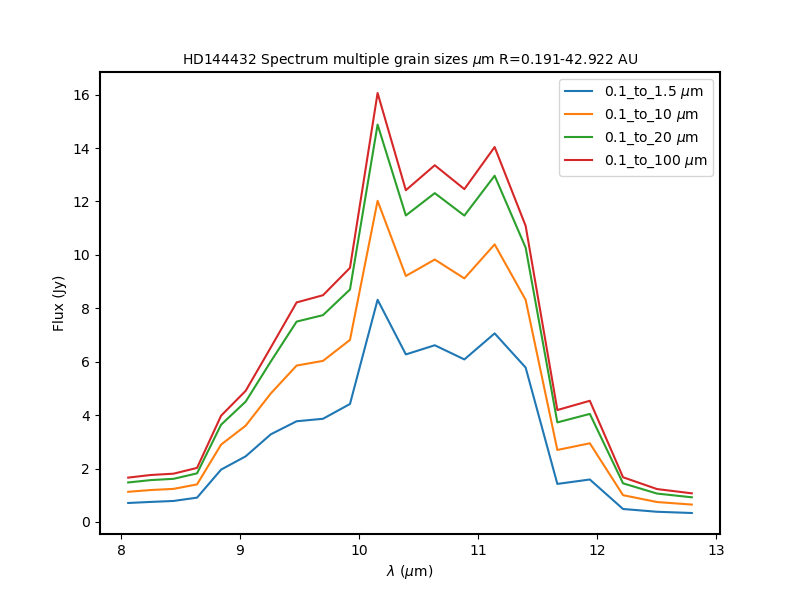
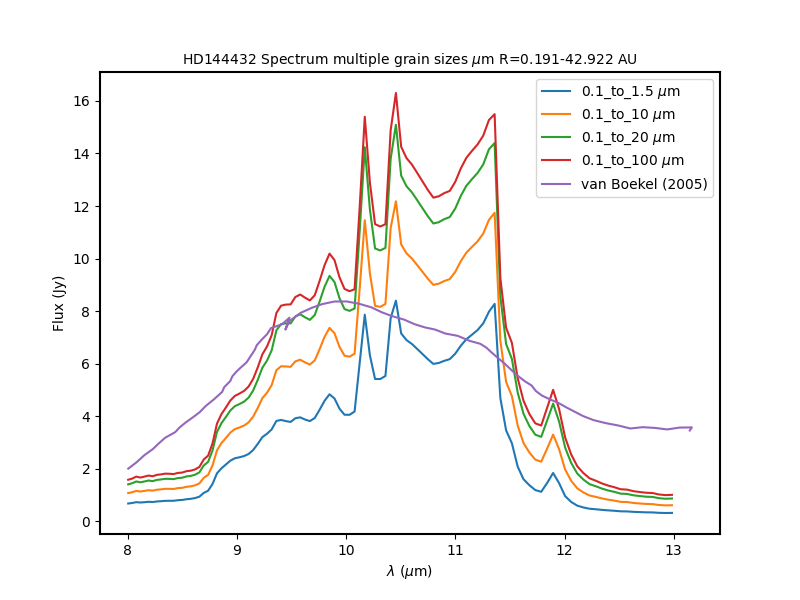
added hd144432 graphs

diff --git a/recreate_spectra.py b/recreate_spectra.py
@@ -6,6 +6,7 @@ import matplotlib.pyplot as plt
 import pandas as pd
 from astropy import units as u
 from astropy.constants import astropyconst20 as const
+from scipy.special import j0
 from fancy_name import latex_name
 from all_solids import get_all_solids
 from molmass import Formula
@@ -15,20 +16,51 @@ from radial_plot import R_plot
 from top5_minerals import final_abundances, most_abundant, topabunds_by_radii
 from spectra import molecular_weight, surface_density, r_to_rad, slice_lQ, get_l_and_k, Plancks, tau_calc, tau_calc_amorphous, flux_map, calculate_spectra, hankel_transform
 from no_thoughts_just_plots import Qcurve_plotter, plot_Bv, plot_tau, plot_fluxmap, plot_spectra
-from Qcurve_compare import gimme_k
+from Qcurve_compare import gimme_k, gimme_l
 
 
-# ~ def get_paper_spectra(filename):
+def get_paper_spectra(filename):
 	
-	# ~ return wl, flux
+	spectrum = pd.read_csv(filename, delimiter=',', names = ['wavelength', 'flux'])
+	wl = u.Quantity(spectrum['wavelength'].to_numpy(), u.micron)
+	flux = spectrum['flux'].to_numpy() * u.Jy
+	
+	return wl, flux
 	
 	
-def gimme_l(filename):
+def hankel_transform_fast(F_map, R_arr, wl, B_arr, dist_pc):
 	
-	Q_curve = pd.read_csv(filename, delimiter='\s+', skiprows = 23, names = ['wavelength', 'Kabs', 'Ksca', 'g_asymm'])
-	lamda = u.Quantity(Q_curve['wavelength'].to_numpy(), u.micron)
+	"""
+	Calculates the absolute correlated flux density (in Jy) using the combined flux map of all the solids. This involves finding the Fourier transform in cylindrical coordinates using the Bessel function of the first kind zeroth order (j0). It is assumed that the correlated fluxes (shape: (lsize,)) are to be plotted against the wavelengths. If, however, it is to be plotted against the baselines, then the correlated flux density (a single float value) corresponding to a specific wavelength (wl) is extracted and returned from the array (shape: (lsize,)). This can be specified with wl_array.
 	
-	return lamda
+	Parameters: 
+	
+	F_map 		  : 2D array (shape: (NPOINT, lsize)) of the combined flux map for all solids in erg/(s Hz sr cm^2) i.e. CGS units (float)
+	R_arr         : 1D array of radii in AU obtained from the temperature array in GGchem output based on the power law model (float)
+	lamda         : 1D array of wavelengths (shape: (lsize,)) of the solid in microns (float)
+	wl 			  : A single wavelength (in micron) where the correlated flux is required if the fluxes are plot against baseline (float). It is used only if wl_array = False
+	B 			  : The interferometric baseline value in m (float)
+	wl_array 	  : If True, the returned correlated fluxes is an array of shape (lsize,) to be plotted against the wavelengths. If False, the correlated flux for a single wavelength value is returned to be plot against the baselines (Boolean)
+	
+	Returns:
+	
+	inter_flux_abs: The absolute correlated flux density in Jy. If wl_array = True, a float array of shape (lsize,) is returned, else a single float value is returned
+	"""
+	
+	rad_arr = r_to_rad(R_arr, dist_pc) 						 											# Converting radius (AU) to arcseconds to radians	
+	rad_arr = rad_arr[np.newaxis]
+	rad_arr = rad_arr.T 																		# Shape: (NPOINT, 1)
+	rad_arr = rad_arr.to('', equivalencies=u.dimensionless_angles()) 
+	
+	# Finding the Bessel function of the first kind, zeroth order
+	bessel = j0(2.0 * np.pi * rad_arr * B_arr / (wl.to(u.m)))           							# Shape: (NPOINT, lsize)
+	
+	# Calculating the absolute interferometric flux
+	inter_flux = 2.0 * np.pi * np.trapz(rad_arr * bessel * F_map, x = rad_arr, axis = 0)   		# Shape: (lsize,)
+	inter_flux_abs = np.abs(inter_flux) * u.rad**2
+	inter_flux_abs = inter_flux_abs.to(u.Jy, equivalencies = u.dimensionless_angles())
+	
+	return inter_flux_abs
 	
 	
 def main():
@@ -76,7 +108,7 @@ def main():
 	top = 5                                 	  			# Top X condensates whose abundance is the highest	
 	lmin = 0.0 * u.micron 						  			# Lower limit of wavelength (microns)
 	lmax = 20.0 * u.micron						  			# Upper limit of wavelength (microns)
-	lsize = 300 								  			# Number of wavelength (and kappa) points 
+	# lsize = 300 								  			# Number of wavelength (and kappa) points 
 	Rmin = np.round(np.min(R_arr), 3) 						# Minimum radius for spectrum plotting (AU) ENSURE IT IS ONLY 2 DECIMAL PLACES LONG
 	Rmax = np.round(np.max(R_arr), 3)						# Maximum radius for spectrum plotting (AU) ENSURE IT IS ONLY 2 DECIMAL PLACES LONG
 	dist_pc = 100 * u.pc  			            			# Assuming a distance to the Sun-like star in parsec
@@ -139,6 +171,7 @@ def main():
 			
 	# Calculating and plotting spectra
 	intflux_sum = np.zeros(len(lamda)) * u.Jy
+	F_map_sum = {key: np.zeros((NPOINT, len(lamda))) * u.erg / (u.s * u.Hz * u.sr * u.cm**2) for key in gs_ranges}
 	
 	for size in gs_ranges:
 		for mineral in top5_solids:
@@ -146,6 +179,7 @@ def main():
 			I = Plancks(lamda, Tg)
 			tau = tau_calc(surf_dens[mineral], kdict[mineral][size])
 			F_map = flux_map(tau, I)
+			F_map_sum[size] += F_map
 			intflux = calculate_spectra(F_map, R_arr, Rmin, Rmax, dist_pc)
 			intflux_sum += intflux
 		
@@ -156,13 +190,77 @@ def main():
 		intflux_plot = intflux_sum[first: last+1]
 		plt.plot(lamda_plot, intflux_plot * 10**4, label = r'{0} $\mu$m'.format(size))
 		
+	# Plotting paper spectrum for the given disk
+	datfile = folder + 'van_Boekel_' + disk + '.dat'
+	wl, flux = get_paper_spectra(datfile)
+	plt.plot(wl, flux, label="van Boekel (2005)")
+		
 	plt.xlabel(r'$\lambda$ ($\mu$m)')
 	plt.ylabel('Flux (Jy)')
 	plt.title(r'{0} Spectrum multiple grain sizes $\mu$m R={1}-{2} AU'.format(disk, Rmin.value, Rmax.value))
 	plt.legend()
 	plt.savefig(folder + "{0}_spectrum_multgs_R{1}-{2}.png".format(disk, Rmin.value, Rmax.value))
 	plt.show()
+	
+	# Plotting the correlated flux density for multiple baselines against wavelengths
+	fig, axs = plt.subplots(2, 2, figsize=(20, 20))
+	axes = [axs[0, 0], axs[0, 1], axs[1,0], axs[1, 1]]
+	i = 0
+	ind = np.where(lamda <= 20 * u.micron)[0][-1]
+	
+	for size in gs_ranges:
+		
+		for Bl in B_small:
 			
+			corr_flux_absB = hankel_transform(F_map_sum[size], R_arr, lamda, wl, Bl, dist_pc, wl_array = True) 
+			axes[i].plot(lamda[:ind+1], corr_flux_absB[:ind+1] * 10**4, label = r'B={0} m'.format(Bl.value))
 			
+		axes[i].set_title("gs={0} $\mu$m".format(size)) 
+		axes[i].legend()
+		i += 1
+	
+	for ax in axs.flat:
+		ax.set(xlabel=r'$\lambda$ ($\mu$m)', ylabel='Correlated flux (Jy)')
+
+	# Hide x labels and tick labels for top plots and y ticks for right plots.
+	# ~ for ax in axs.flat:
+	    # ~ ax.label_outer()	
+	axs[0,0].get_xaxis().set_visible(False)
+	axs[0,1].get_xaxis().set_visible(False)
+             
+	fig.suptitle(r'{0} correlated flux for multiple baselines and grain sizes'.format(disk))
+	plt.savefig(folder + 'Correlated_flux_multB_multgs.png')
+	plt.show()
+	
+	# Plotting correlated fluxes against baselines for multiple wavelengths and size ranges
+	inter_flux = {key: np.zeros(len(B)) * u.Jy for key in gs_ranges}
+	fig, axs = plt.subplots(2, 2, figsize=(20, 20))
+	axes = [axs[0, 0], axs[0, 1], axs[1,0], axs[1, 1]]
+	ind = np.where(lamda <= 20 * u.micron)[0][-1]
+	i = 0
+	
+	for size in gs_ranges:		
+		for wl in wl_list:
+			for bl in range(len(B)):			
+				inter_flux[size][bl] = hankel_transform(F_map_sum[size], R_arr, lamda, wl, B[bl], dist_pc, wl_array = False)
+			axes[i].plot(B, inter_flux[size] * 10**4, label=r"{0} $\mu$m".format(wl.value))	
+		
+		axes[i].set_title("gs={0} $\mu$m".format(size)) 
+		axes[i].legend()
+		i += 1
+		
+	for ax in axs.flat:
+		ax.set(xlabel=r'Baseline (m)', ylabel='Correlated flux (Jy)')
+
+	# Hide x labels and tick labels for top plots and y ticks for right plots.
+	# ~ for ax in axs.flat:
+	    # ~ ax.label_outer()	
+	axs[0,0].get_xaxis().set_visible(False)
+	axs[0,1].get_xaxis().set_visible(False)
+             
+	fig.suptitle(r'{0} correlated flux for multiple wavelengths and grain sizes'.format(disk))
+	plt.savefig(folder + 'Correlated_flux_multwl_multgs.png')
+	plt.show()
+				
 if __name__ == "__main__":
 	main()

diff --git a/Qcurve_compare.py b/Qcurve_compare.py
@@ -8,6 +8,14 @@ import pandas as pd
 from fancy_name import latex_name
 
 
+def gimme_l(filename):
+	
+	Q_curve = pd.read_csv(filename, delimiter='\s+', skiprows = 23, names = ['wavelength', 'Kabs', 'Ksca', 'g_asymm'])
+	lamda = u.Quantity(Q_curve['wavelength'].to_numpy(), u.micron)
+	
+	return lamda
+	
+	
 def gimme_k(filename):
 	
 	"""
@@ -33,13 +41,13 @@ def gimme_k(filename):
 def main():
 	
 	folder = "Qcurve_Comparison/"
-	minerals = ['Fe2SiO4', 'Fe3O4', 'Fe', 'FeS', 'Mg2SiO4', 'MgSiO3', 'Ni', 'SiO2']
+	minerals = ['Fe2SiO4', 'Fe3O4', 'Fe', 'FeS', 'Mg2SiO4', 'MgSiO3', 'Ni', 'SiO']
 	paths = ['Qcurve_inputs_mult_GS/0.1_to_1.5/*.dat', 'Qcurve_inputs_mult_GS/0.1_to_10/*.dat', 'Qcurve_inputs_mult_GS/0.1_to_20/*.dat', 'Qcurve_inputs_mult_GS/0.1_to_100/*.dat']
 	gs_ranges = ['0.1_to_1.5', '0.1_to_10', '0.1_to_20', '0.1_to_100']
 	
 	# Defining a nested dictionary where each dictionary within is named after a mineral and each such dictionary consists of grain size ranges as keys with their wavelengths/opacities as values
-	ldict = {outer_k: {inner_k: None for inner_k in gs_ranges} for outer_k in minerals}
 	kdict = {outer_k: {inner_k: None for inner_k in gs_ranges} for outer_k in minerals}
+	lamda = gimme_l('Qcurve_inputs_mult_GS/0.1_to_1.5/Q_Fe2SiO4_rv0.1-1.5_fmax0.7.dat')
 	
 	for path in paths:	
 		
@@ -51,15 +59,15 @@ def main():
 			filename = opfile.split('/')[2]
 			mineral = filename.split('_')[1]
 			
-			ldict[mineral][size], kdict[mineral][size] = gimme_lk(opfile)
+			kdict[mineral][size] = gimme_k(opfile)
 	
 	# Plot the opacities for only the first 20 microns	
 	for mineral in minerals:
 		for size in gs_ranges:
 			
 			# Take the last index where the wavelength value is less than or equal to 20 microns
-			index = np.where(ldict[mineral][size] <= 20 * u.micron)[0][-1]
-			ldict_plot = ldict[mineral][size][:index+1]
+			index = np.where(lamda <= 20 * u.micron)[0][-1]
+			ldict_plot = lamda[:index+1]
 			kdict_plot = kdict[mineral][size][:index+1]
 			
 			# Plot the opacity curve of the mineral for a particular size range
